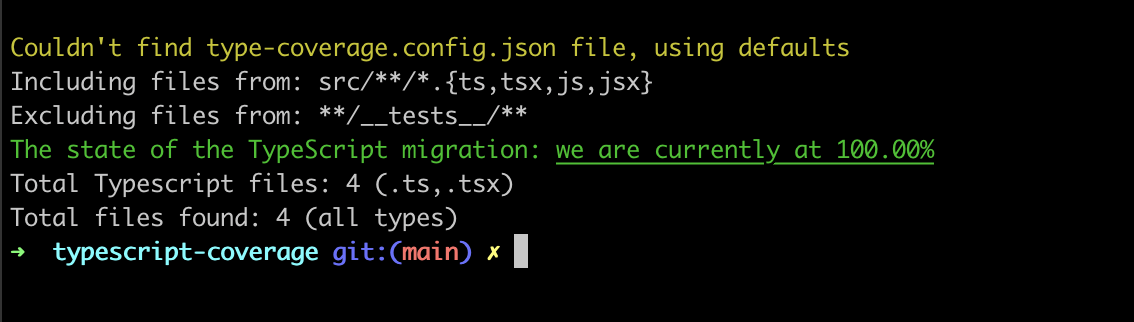
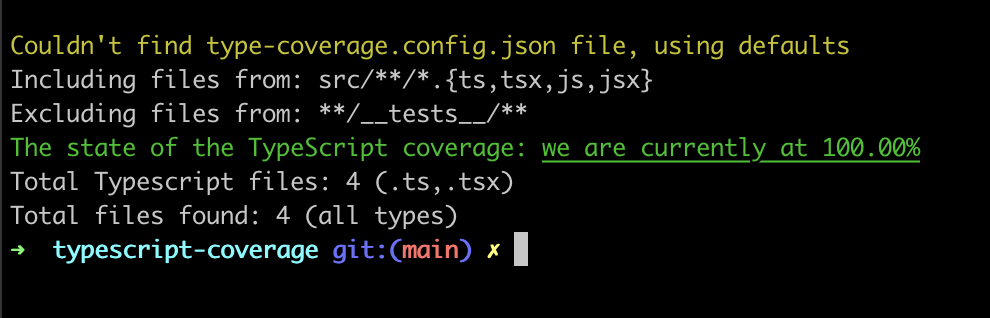
[Fix] Use more precise wording (#5)

Changed region(s): [[0.0, 0.1132, 0.8788, 0.3962], [0.0, 0.5377, 0.5455, 0.8491], [0.0, 0.4245, 0.9394, 0.5377]]

diff --git a/src/__tests__/e2e.spec.ts b/src/__tests__/e2e.spec.ts
@@ -31,7 +31,7 @@ describe('E2E Test on src code', () => {
       expect(stdout).toContain('Including files from: src/**/*.{ts,tsx,js,jsx}');
       expect(stdout).toContain('Excluding files from: **/__tests__/**');
       expect(stdout).toContain(
-        'The state of the TypeScript migration: we are currently at 100.00%',
+        'The state of the TypeScript coverage: we are currently at 100.00%',
       );
 
       expect(stdout).toContain('Total Typescript files: 4 (.ts,.tsx)');

diff --git a/src/index.ts b/src/index.ts
@@ -32,7 +32,7 @@ try {
 
   console.log(
     chalk.green(
-      `The state of the TypeScript migration: ${chalk.underline(
+      `The state of the TypeScript coverage: ${chalk.underline(
         `we are currently at ${migratedPercentage.toFixed(2)}%`,
       )}`,
     ),
